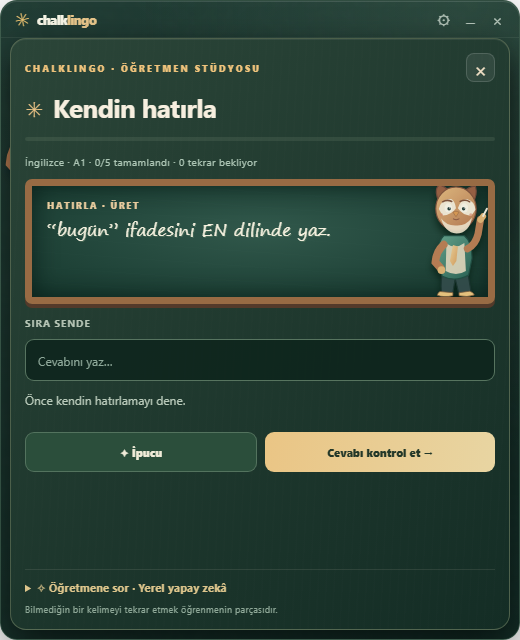
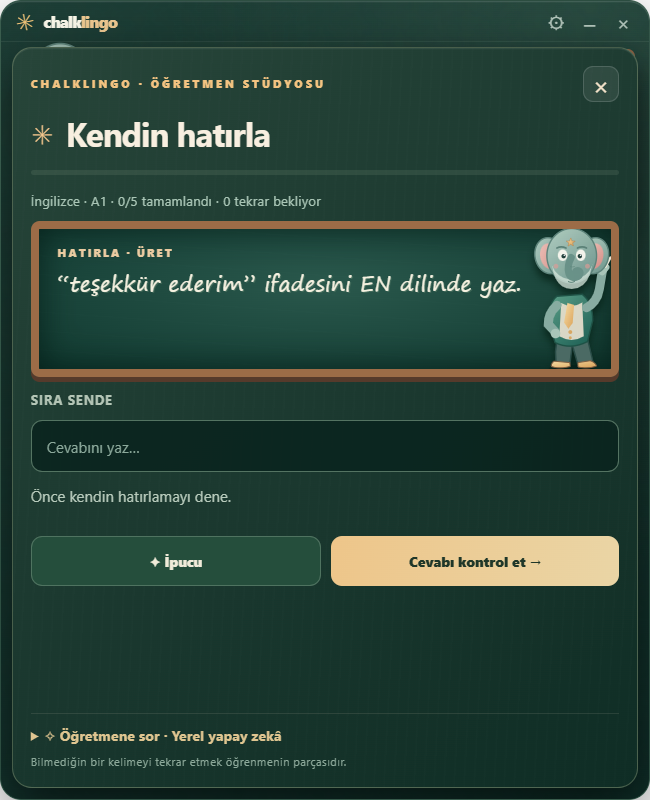
Make ChalkLingo more compact with Mimo the memory elephant

diff --git a/ui/index.html b/ui/index.html
@@ -47,34 +47,42 @@
         <div class="eraser" id="eraser" aria-hidden="true"></div>
       </div>
     </div>
-    <div class="teacher" title="Lumi · kelime koçun" aria-hidden="true">
+    <div class="teacher" title="Mimo · hafıza filin" aria-hidden="true">
       <svg viewBox="0 0 180 330" aria-hidden="true" focusable="false">
         <defs>
-          <linearGradient id="owlBody" x1=".1" y1="0" x2=".9" y2="1"><stop offset="0" stop-color="#65a28b"/><stop offset="1" stop-color="#2d6658"/></linearGradient>
-          <linearGradient id="owlFeather" x1="0" y1="0" x2=".8" y2="1"><stop offset="0" stop-color="#e8bd83"/><stop offset="1" stop-color="#bd8055"/></linearGradient>
-          <linearGradient id="owlScarf" x1="0" y1="0" x2="1" y2="1"><stop offset="0" stop-color="#f2d59c"/><stop offset="1" stop-color="#d99f5d"/></linearGradient>
+          <linearGradient id="elephantBody" x1=".1" y1="0" x2=".9" y2="1"><stop offset="0" stop-color="#b9d2c5"/><stop offset="1" stop-color="#789b91"/></linearGradient>
+          <linearGradient id="elephantEar" x1="0" y1="0" x2="1" y2="1"><stop offset="0" stop-color="#f3c6bd"/><stop offset="1" stop-color="#d88f8a"/></linearGradient>
+          <linearGradient id="elephantVest" x1="0" y1="0" x2=".8" y2="1"><stop offset="0" stop-color="#68a38a"/><stop offset="1" stop-color="#2d6658"/></linearGradient>
+          <linearGradient id="elephantGold" x1="0" y1="0" x2="1" y2="1"><stop offset="0" stop-color="#ffe4a6"/><stop offset="1" stop-color="#dfa653"/></linearGradient>
         </defs>
-        <ellipse cx="86" cy="316" rx="50" ry="8" fill="#00130e" opacity=".28"/>
-        <path d="M55 235 Q44 268 48 304 Q59 314 77 308 L84 266 L94 307 Q111 314 126 304 L116 244Z" fill="#334c4b" stroke="#1d3732" stroke-width="3"/>
-        <path d="M44 300 Q38 303 37 310 Q54 316 78 311 L78 303Z M94 303 L94 311 Q115 316 134 309 Q132 302 122 299Z" fill="#f0c982" stroke="#805c3d" stroke-width="2"/>
-        <path d="M54 154 Q36 170 39 220 L50 260 Q83 276 119 257 L128 214 Q129 171 108 154Z" fill="url(#owlBody)" stroke="#214e43" stroke-width="3"/>
-        <path d="M61 174 Q84 191 108 173 L112 246 Q86 262 59 246Z" fill="#e6dbc0" opacity=".92"/>
-        <path d="M78 178 L91 182 L87 220 L78 233 L70 220Z" fill="url(#owlScarf)"/>
-        <path d="M54 177 Q34 195 32 223 L47 240" fill="none" stroke="#bd8055" stroke-width="20" stroke-linecap="round"/>
-        <circle cx="48" cy="244" r="10" fill="#e4b878"/>
-        <g class="chalk-arm"><path d="M116 188 Q137 178 144 149 L150 112" fill="none" stroke="#bd8055" stroke-width="19" stroke-linecap="round"/><path d="M150 112 L157 103" fill="none" stroke="#e4b878" stroke-width="16" stroke-linecap="round"/><path d="M157 102 L167 83" fill="none" stroke="#f5f0df" stroke-width="5" stroke-linecap="round"/></g>
+        <ellipse cx="86" cy="316" rx="48" ry="8" fill="#00130e" opacity=".28"/>
+        <path d="M61 235 Q49 269 53 303 Q64 314 82 307 L87 266 L99 307 Q117 314 131 303 L116 240Z" fill="#526d67" stroke="#304e49" stroke-width="3"/>
+        <path d="M49 300 Q43 304 43 311 Q60 317 83 311 L82 303Z M99 303 L99 312 Q120 317 138 310 Q136 303 125 299Z" fill="url(#elephantGold)" stroke="#805c3d" stroke-width="2"/>
+        <path d="M55 164 Q35 180 39 220 L51 261 Q83 277 119 259 L130 215 Q130 177 108 160Z" fill="url(#elephantVest)" stroke="#285346" stroke-width="3"/>
+        <path d="M64 178 Q86 191 108 177 L111 248 Q86 263 60 248Z" fill="#f0e6d2" opacity=".94"/>
+        <path d="M77 178 L91 182 L88 220 L79 232 L70 219Z" fill="url(#elephantGold)"/>
+        <circle cx="83" cy="239" r="4" fill="#dfad5f"/><circle cx="83" cy="251" r="3" fill="#dfad5f"/>
+        <path d="M55 183 Q36 200 37 223 L51 238" fill="none" stroke="#91b1a5" stroke-width="19" stroke-linecap="round"/>
+        <circle cx="52" cy="242" r="10" fill="#b3ccbf"/>
+        <g class="chalk-arm"><path d="M117 188 Q138 178 144 149 L150 112" fill="none" stroke="#91b1a5" stroke-width="19" stroke-linecap="round"/><path d="M150 112 L157 103" fill="none" stroke="#b3ccbf" stroke-width="16" stroke-linecap="round"/><path d="M157 102 L167 83" fill="none" stroke="#f5f0df" stroke-width="5" stroke-linecap="round"/></g>
         <g class="teacher-head">
-          <path d="M42 67 Q27 33 42 20 Q59 25 69 39 Q88 31 106 40 Q118 25 137 24 Q144 48 128 72Z" fill="#9c6245" stroke="#744b3c" stroke-width="3" stroke-linejoin="round"/>
-          <ellipse cx="86" cy="83" rx="53" ry="57" fill="url(#owlFeather)" stroke="#83543e" stroke-width="3"/>
-          <path d="M41 84 Q49 54 75 58 Q84 65 86 82 Q74 100 51 101Z M91 82 Q97 58 116 58 Q135 63 137 86 L126 102 Q103 100 91 82Z" fill="#f6ecd9"/>
-          <ellipse cx="66" cy="81" rx="10" ry="12" fill="#fbf7e9"/><ellipse cx="108" cy="81" rx="10" ry="12" fill="#fbf7e9"/>
-          <circle class="teacher-eye" cx="68" cy="83" r="4.5" fill="#223c38"/><circle class="teacher-eye" cx="106" cy="83" r="4.5" fill="#223c38"/>
-          <circle cx="69.5" cy="81" r="1.5" fill="#fff"/><circle cx="107.5" cy="81" r="1.5" fill="#fff"/>
-          <path d="M78 92 Q86 87 94 92 L86 104Z" fill="#df9c55" stroke="#9b6942" stroke-width="1.5" stroke-linejoin="round"/>
-          <path class="teacher-mouth" d="M79 110 Q86 115 94 110" stroke="#84523f" stroke-width="2.4" fill="none" stroke-linecap="round"/>
-          <path d="M47 108 Q61 128 86 127 Q112 129 128 106 Q121 147 87 148 Q56 145 47 108Z" fill="#f4e7cf" opacity=".92"/>
-          <path d="M51 65 Q62 58 75 64 M97 64 Q111 57 122 65" stroke="#80533e" stroke-width="4" fill="none" stroke-linecap="round"/>
-          <circle cx="48" cy="99" r="4" fill="#d98a6c" opacity=".65"/><circle cx="125" cy="99" r="4" fill="#d98a6c" opacity=".65"/>
+          <ellipse cx="39" cy="79" rx="30" ry="38" fill="url(#elephantBody)" stroke="#66877e" stroke-width="3" transform="rotate(-12 39 79)"/>
+          <ellipse cx="39" cy="80" rx="19" ry="27" fill="url(#elephantEar)" transform="rotate(-12 39 80)"/>
+          <ellipse cx="133" cy="79" rx="30" ry="38" fill="url(#elephantBody)" stroke="#66877e" stroke-width="3" transform="rotate(12 133 79)"/>
+          <ellipse cx="133" cy="80" rx="19" ry="27" fill="url(#elephantEar)" transform="rotate(12 133 80)"/>
+          <ellipse cx="86" cy="79" rx="52" ry="57" fill="url(#elephantBody)" stroke="#66877e" stroke-width="3"/>
+          <path d="M45 101 Q52 119 69 125 Q86 132 104 125 Q121 119 128 101 Q121 147 86 149 Q51 147 45 101Z" fill="#dce9df" opacity=".78"/>
+          <ellipse cx="67" cy="78" rx="10" ry="12" fill="#fffdf3"/><ellipse cx="105" cy="78" rx="10" ry="12" fill="#fffdf3"/>
+          <circle class="teacher-eye" cx="69" cy="80" r="4.5" fill="#263f3a"/><circle class="teacher-eye" cx="103" cy="80" r="4.5" fill="#263f3a"/>
+          <circle cx="70.5" cy="78" r="1.5" fill="#fff"/><circle cx="104.5" cy="78" r="1.5" fill="#fff"/>
+          <path d="M55 63 Q64 58 74 63 M98 63 Q108 58 117 63" stroke="#64857a" stroke-width="3.5" fill="none" stroke-linecap="round"/>
+          <g class="elephant-trunk">
+            <path d="M85 83 C79 94 77 105 80 116 C82 124 91 127 98 123 C104 120 105 114 101 111 C98 109 94 111 94 114" fill="none" stroke="#73968b" stroke-width="15" stroke-linecap="round" stroke-linejoin="round"/>
+            <path d="M82 101 Q87 104 92 101" stroke="#678a80" stroke-width="1.5" fill="none" opacity=".8"/>
+          </g>
+          <path class="teacher-mouth" d="M79 133 Q86 137 93 132" stroke="#64857a" stroke-width="2" fill="none" stroke-linecap="round"/>
+          <circle cx="53" cy="101" r="5" fill="#e99d99" opacity=".62"/><circle cx="119" cy="101" r="5" fill="#e99d99" opacity=".62"/>
+          <path d="M84 42 l2.5 6 6.5.5-5 4 1.5 6-5.5-3.5-5.5 3.5 1.5-6-5-4 6.5-.5Z" fill="url(#elephantGold)" stroke="#ba8648" stroke-width="1"/>
         </g>
       </svg>
     </div>

diff --git a/ui/studio.css b/ui/studio.css
@@ -15,6 +15,7 @@
 .teacher .chalk-arm{animation:none;transform:rotate(-5deg);transition:transform .65s cubic-bezier(.2,.8,.3,1)}
 .board-shell.is-erasing+.teacher .chalk-arm{animation:writeArm .48s ease-in-out 1}
 .teacher-eye{transform-box:fill-box;transform-origin:center}
+.elephant-trunk{transform-box:fill-box;transform-origin:50% 4%;animation:trunkSway 5.2s ease-in-out infinite}
 body[data-mood=correct] .teacher-head,body[data-mood=complete] .teacher-head{animation:teacherNod .7s ease-in-out 2}
 body[data-mood=thinking] .teacher .chalk-arm{transform:rotate(9deg)}
 .teacher-mouth{transform-box:fill-box;transform-origin:center}
@@ -44,41 +45,42 @@ body.settings-open .teacher,body.practicing .teacher{animation-play-state:paused
 @keyframes headListen{0%,35%,100%{transform:rotate(0)}50%,70%{transform:rotate(-2deg)}}
 @keyframes teacherNod{0%,100%{transform:rotate(0)}50%{transform:rotate(4deg) translateY(2px)}}
 @keyframes teacherTalk{to{transform:scaleY(1.6)}}
+@keyframes trunkSway{0%,100%{transform:rotate(0)}42%{transform:rotate(-2deg)}72%{transform:rotate(1.5deg)}}
 @media(prefers-reduced-motion:reduce){*,*:before,*:after{animation:none!important;transition:none!important}}
 body.reduce-motion *,body.reduce-motion *:before,body.reduce-motion *:after{animation:none!important;transition:none!important}
 [hidden]{display:none!important}
 
 
-/* Sticky-note sized 360×340 widget; lessons and settings expand on demand. */
+/* Compact sticky-note widget; lessons and settings expand on demand. */
 .widget{width:100%;height:100%;border-radius:17px}
-.titlebar{height:37px;padding:0 9px 0 13px}
+.titlebar{height:33px;padding:0 8px 0 11px}
 .brand-mark{font-size:18px}.brand-name{font-size:13px}.brand-tag{display:none}
 .window-actions{gap:2px}.icon-btn{width:25px;height:25px;font-size:16px}
-.classroom{padding:3px 12px 8px}
+.classroom{padding:2px 11px 5px}
 .upper-label{display:none}
-.scene{height:194px;margin:0}
-.board-shell{top:4px;left:27px;right:0;height:175px;padding:6px;border-radius:6px}
-.board-head{left:57px;right:6px;top:7px}.card-type{font-size:7px;letter-spacing:.6px}
+.scene{height:151px;margin:0}
+.board-shell{top:3px;left:25px;right:0;height:137px;padding:5px;border-radius:6px}
+.board-head{left:49px;right:5px;top:5px}.card-type{font-size:6px;letter-spacing:.5px}
 .level-pill{font-size:8px;padding:3px 5px}
-.lesson-surface{top:31px;left:57px;right:7px;bottom:23px}
-.chalk-word{font-size:22px;line-height:1.17;max-height:50px}.chalk-word.long-word{font-size:15px}
-.chalk-word.japanese{font-size:18px}.chalk-word.long-word.japanese{font-size:14px}
-.phonetic{font-size:9px;min-height:11px;margin-top:2px}
-.chalk-divider{margin-top:5px}
-.chalk-translation{font-size:12px;margin-top:5px;max-height:30px}
-.chalk-example{font-size:9px;margin-top:3px;line-height:1.2;max-height:26px}
-.board-footer{bottom:6px;left:54px;right:6px;font-size:6px;gap:3px}.chalk-progress{font-size:7px}
-.teacher{left:-20px;bottom:14px;width:99px;height:178px}
-.chalk-tray{bottom:15px;left:55px;right:0}
-.rhythm-bar{height:17px;margin:0;font-size:9px}.rhythm-bar button{font-size:9px;padding:1px 6px}
+.lesson-surface{top:25px;left:49px;right:6px;bottom:18px}
+.chalk-word{font-size:19px;line-height:1.12;max-height:40px}.chalk-word.long-word{font-size:13px}
+.chalk-word.japanese{font-size:16px}.chalk-word.long-word.japanese{font-size:12px}
+.phonetic{font-size:8px;min-height:9px;margin-top:1px}
+.chalk-divider{margin-top:3px}
+.chalk-translation{font-size:11px;margin-top:3px;max-height:26px}
+.chalk-example{font-size:8px;margin-top:2px;line-height:1.15;max-height:21px}
+.board-footer{bottom:4px;left:47px;right:5px;font-size:5px;gap:2px}.chalk-progress{font-size:6px}
+.teacher{left:-4px;bottom:11px;width:84px;height:151px}
+.chalk-tray{bottom:2px;left:49px;right:0}
+.rhythm-bar{height:15px;margin:0;font-size:8px}.rhythm-bar button{font-size:8px;padding:1px 5px}
 .message-line{display:none}
-.actions-card{height:38px;padding:4px;margin-top:3px;gap:3px!important;border-radius:9px}
-.round-action{width:29px;height:27px;font-size:17px}
-.learn-action{height:27px;gap:3px;padding:0 7px;font-size:10px;border-radius:6px}
-.actions-card #practiceBtn{height:27px;padding:0 8px;font-size:10px;border-radius:6px;white-space:nowrap}
-.next-action{height:27px;padding:0 3px;font-size:9px}.next-action span{font-size:12px}
-.bottom-strip{margin-top:6px}.progress-label{font-size:8px;letter-spacing:.5px}
-.progress-numbers{font-size:9px}.progress-track{margin-top:4px;height:3px}.footer-hint{display:none}
+.actions-card{height:34px;padding:3px;margin-top:2px;gap:2px!important;border-radius:8px}
+.round-action{width:26px;height:25px;font-size:16px}
+.learn-action{height:25px;gap:2px;padding:0 6px;font-size:9px;border-radius:6px}
+.actions-card #practiceBtn{height:25px;padding:0 6px;font-size:9px;border-radius:6px;white-space:nowrap}
+.next-action{height:25px;padding:0 2px;font-size:8px}.next-action span{font-size:11px}
+.bottom-strip{margin-top:4px}.progress-label{font-size:7px;letter-spacing:.4px}
+.progress-numbers{font-size:8px}.progress-track{margin-top:3px;height:3px}.footer-hint{display:none}
 .settings-overlay{inset:0;padding:12px}.settings-panel{height:100%;max-height:100%;padding:14px 17px;overflow:auto}
 .practice-overlay{inset:37px 9px 9px;padding:14px}
 .voice-setting{display:flex;flex-direction:column;gap:5px;color:#d6c49e;font-size:10px;margin:10px 0}

diff --git a/ui/app.js b/ui/app.js
@@ -78,7 +78,7 @@ function setCurrent(card){
  elements.lessonExample.textContent=card.example;
  elements.lessonExample.setAttribute('title',card.note);
  elements.teacherTip.title=card.note;
- elements.teacherTip.textContent=persisted.dayIsReview&&activeDay()?'Lumi: Bildiklerini sağlamlaştırıyoruz. Bu kelimeler kalıcı hafızana yerleşiyor.':activeDay()?`Lumi: Gün ${persisted.dayNumber}. “${card.front}” kelimesini örneğinde yakala.`:(card.note||'Lumi: Her gün küçük bir adım, güçlü bir alışkanlık kurar.');
+   elements.teacherTip.textContent=persisted.dayIsReview&&activeDay()?'Mimo: Bildiklerini sağlamlaştırıyoruz. Bu kelimeler kalıcı hafızana yerleşiyor.':activeDay()?`Mimo: Gün ${persisted.dayNumber}. “${card.front}” kelimesini örneğinde yakala.`:(card.note||'Mimo: Her gün küçük bir adım, güçlü bir alışkanlık kurar.');
  const list=deck();
  const index=list.findIndex(x=>x.id===card.id)+1;
  elements.lessonIndex.textContent=`${String(index).padStart(2,'0')} / ${String(list.length).padStart(2,'0')}`;
@@ -306,7 +306,7 @@ function attach(){
  document.addEventListener('chalk:practiceOpened',()=>{panel('expanded');cancelTransition();scheduler.pause();clearTimeout(speakTimer);cancelPronunciation();mood('thinking');});
  document.addEventListener('chalk:feedback',e=>{
   mood(e.detail);
-  const lines={correct:'Lumi: Güzel hatırladın. Şimdi bu kelimeyi kendi cümlende kullan.',retry:'Lumi: Acele yok. İpucuna bak, bir kez daha dene; hatalar öğrenmenin parçası.',complete:'Lumi: Oturum tamamlandı. Kısa bir nefes al; hazır olduğunda yeni kelimeler seni bekliyor.'};
+  const lines={correct:'Mimo: Güzel hatırladın. Şimdi bu kelimeyi kendi cümlende kullan.',retry:'Mimo: Acele yok. İpucuna bak, bir kez daha dene; hatalar öğrenmenin parçası.',complete:'Mimo: Oturum tamamlandı. Kısa bir nefes al; hazır olduğunda yeni kelimeler seni bekliyor.'};
   if(lines[e.detail])elements.teacherTip.textContent=lines[e.detail];
   if(settings.lessonSound)cue(e.detail);
  });

diff --git a/README.md b/README.md
@@ -1,18 +1,18 @@
 # CL · ChalkLingo
 
-**v0.3.5 — Masaüstünde küçük, sesli bir dil öğrenme tahtası.**
+**v0.3.6 — Mimo adlı hafıza filiyle, daha küçük ve sesli masaüstü kelime widget’ı.**
 
 <img src="assets/icon.png" width="64" alt="CL uygulama simgesi" />
 
-CL, Yapışkan Notlar gibi küçük ve çerçevesiz bir Windows masaüstü widget’ıdır. Normal görünüm **360 × 340** mantıksal pikseldir; görev çubuğunda düğmesi yoktur. Yönetim için sistem tepsisinde CL simgesi bulunur. Windows Widget panosunun parçası değildir; arka planda bir masaüstü uygulaması çalışır.
+CL, Yapışkan Notlar gibi küçük ve çerçevesiz bir Windows masaüstü widget’ıdır. Yeni normal görünüm **320 × 280** mantıksal pikseldir; görev çubuğunda düğmesi yoktur. Yönetim için sistem tepsisinde CL simgesi bulunur. Windows Widget panosunun parçası değildir; arka planda bir masaüstü uygulaması çalışır.
 
 ## Güncel görünüm
 
-<a href="docs/screenshots/widget-compact.png"><img src="docs/screenshots/widget-compact.png" width="360" alt="CL küçük masaüstü widget'ı" /></a>
+<a href="docs/screenshots/widget-compact.png"><img src="docs/screenshots/widget-compact.png" width="320" alt="CL kompakt masaüstü widget'ı" /></a>
 
 Yeni kelime günü 12 sözcükle açılır; set tamamlandığında Sonraki düğmesi sıradaki güne dönüşür:
 
-<a href="docs/screenshots/widget-next-day.png"><img src="docs/screenshots/widget-next-day.png" width="360" alt="Tamamlanan kelime gününden sonra yeni kelime setini açma düğmesi" /></a>
+<a href="docs/screenshots/widget-next-day.png"><img src="docs/screenshots/widget-next-day.png" width="320" alt="Tamamlanan kelime gününden sonra yeni kelime setini açma düğmesi" /></a>
 
 Yalnızca ayarlar veya **Çalış** açıldığında panel yaklaşık **520 × 640** olur; kapatınca küçük hâline ve önceki konumuna döner. Windows ekran ölçeklendirmesi ve kenarlık yuvarlaması birkaç piksellik fark yaratabilir. Görüntüler gerçek Windows uygulamasından alınmıştır.
 
@@ -22,7 +22,7 @@ Yalnızca ayarlar veya **Çalış** açıldığında panel yaklaşık **520 × 6
 
 ## Windows’a kurulum
 
-1. **ChalkLingo Setup 0.3.5.exe** yükleyicisini çalıştır. Kurulum mevcut kullanıcı hesabına yapılır; yönetici yükseltmesi istenmez.
+1. **ChalkLingo Setup 0.3.6.exe** yükleyicisini çalıştır. Kurulum mevcut kullanıcı hesabına yapılır; yönetici yükseltmesi istenmez.
 2. Masaüstünde ve Başlat menüsünde **CL** kısayolu oluşur. CL’yi aç.
 3. İlk açılışta kullanıcı oturumuyla başlama etkinleştirilmeye çalışılır. Ayarlar → **Windows ile başlat** durumunu kontrol edebilir veya kapatabilirsin.
 

diff --git a/docs/VALIDATION.md b/docs/VALIDATION.md
@@ -53,3 +53,10 @@ Paket doğrulaması: release/win-unpacked/ChalkLingo.exe aynı masaüstü testin
 - Windows kullanıcı oturum açma API'si özel kayıt adına göre `openAtLogin: false` gösterse de `launchItems` içinde aynı EXE yolu için etkin kullanıcı kaydı verdi. Uygulama durumu bu kaydı kontrol edecek şekilde güncellendi; kurulu widget ayarında **Windows açılışında: aktif** doğrulandı.
 - NSIS 0.3.5 kullanıcı kurulum kodu 0 ile tamamlandı. EXE `0.3.5.0`, CL masaüstü kısayolu hedefi kurulu EXE ve simge kaynağı EXE. Kurulu widget çalışıyor ve 0.3.5 içerikleri gösteriyor. Kod imzalama sertifikası yok.
 - Ek bağımlılık veya sürekli kontrol döngüsü eklenmedi. Ders seçimi mevcut sabit listede çalışıyor; var olan tek zamanlayıcı ve gizli animasyonu askıya alma davranışı korundu. Bu sürüm için yeni CPU/RAM uzun süre ölçümü yapılmadı.
+
+## 0.3.6 · Daha küçük normal widget ve Mimo
+
+- Normal pencere 360×340'tan 320×280 mantıksal piksele küçültüldü. Ayarlar ve **Çalış** panelleri 520×640 olarak kaldı; ders metni, öğretmen ve kontroller kompakt ölçüye göre yeniden düzenlendi.
+- Baykuş koç, öğrenilenleri hatırlamayı temsil eden Mimo adlı sevimli fil karakterine dönüştürüldü. Göz kırpma, konuşma, baş hareketi ve tebeşir etkileşimleri mevcut hafif SVG/CSS animasyonlarını kullanmaya devam ediyor.
+- Gerçek Electron ekran görüntüleri yenilendi; widget sınırları 320×280, açılır paneller 520×640 olarak doğrulanıyor. Windows DPI ölçeği ekran görüntüsündeki fiziksel piksel ölçüsünü büyütebilir.
+- Güvenlik politikası ve ek bağımlılıklar değişmedi. Tek zamanlayıcı ve görünürlükte animasyon durdurma davranışı korundu. Yeni CPU/RAM benchmark'ı yapılmadı.
